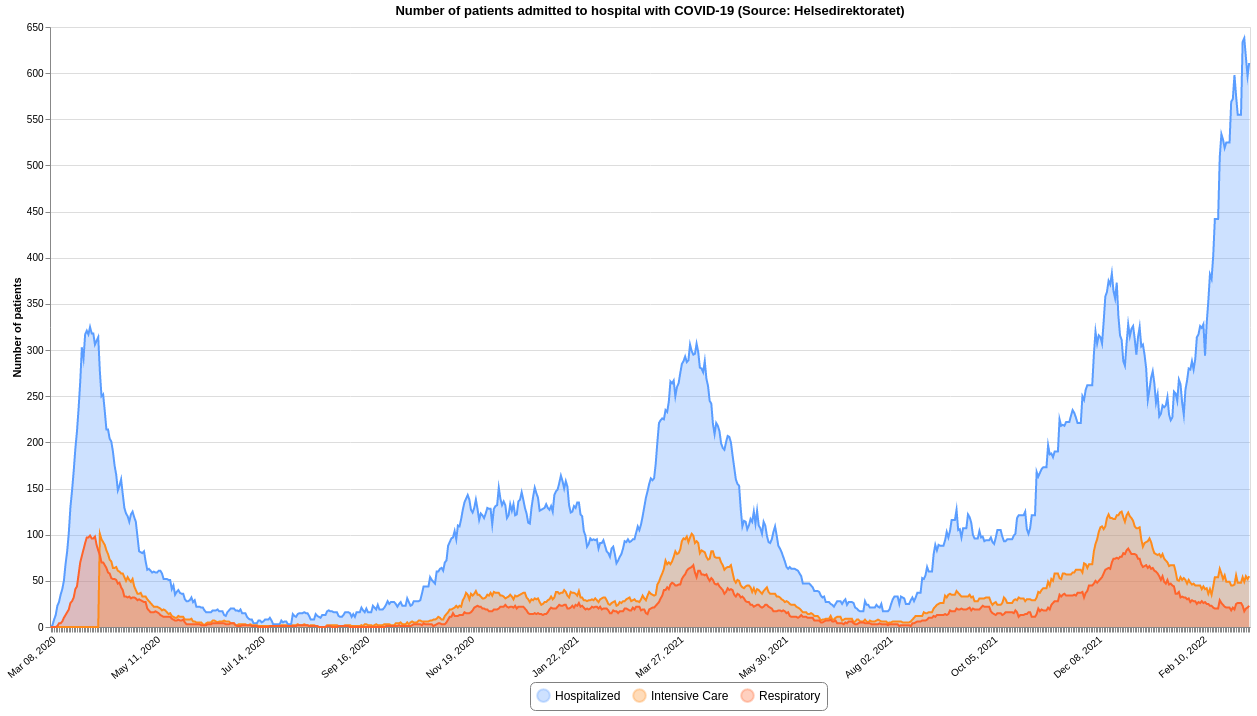
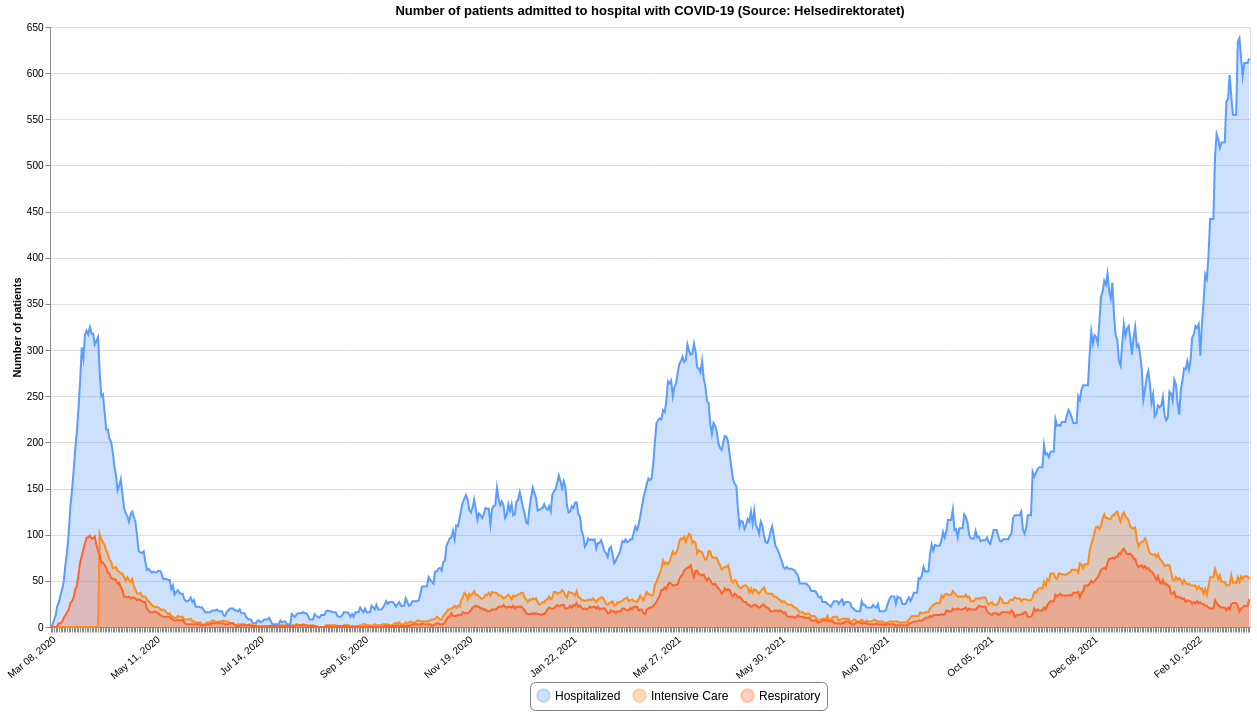
Updated 2022-03-14 12:51

diff --git a/README.md b/README.md
@@ -12,7 +12,7 @@ This repository contains datasets of daily time-series data related to COVID-19 
 | :--- | :--- | :--- | :--- | :--- |
 |[Confirmed](#confirmedcsv)|FHI / MSIS|2022-03-14 00:20:46+01:00|[<center>csv</center>](https://raw.githubusercontent.com/frefrik/covid19norge-data/main/data/confirmed.csv)|[<center>preview</center>](data/confirmed.csv)|
 |[Dead](#deadcsv)|FHI|2022-03-11 13:20:53+01:00|[<center>csv</center>](https://raw.githubusercontent.com/frefrik/covid19norge-data/main/data/dead.csv)|[<center>preview</center>](data/dead.csv)|
-|[Hospitalized](#hospitalizedcsv)|Helsedirektoratet|2022-03-11 12:50:44+01:00|[<center>csv</center>](https://raw.githubusercontent.com/frefrik/covid19norge-data/main/data/hospitalized.csv)|[<center>preview</center>](data/hospitalized.csv)|
+|[Hospitalized](#hospitalizedcsv)|Helsedirektoratet|2022-03-14 12:50:47+01:00|[<center>csv</center>](https://raw.githubusercontent.com/frefrik/covid19norge-data/main/data/hospitalized.csv)|[<center>preview</center>](data/hospitalized.csv)|
 |[Tested](#testedcsv)|FHI|2022-03-11 13:00:45+01:00|[<center>csv</center>](https://raw.githubusercontent.com/frefrik/covid19norge-data/main/data/tested.csv)|[<center>preview</center>](data/tested.csv)|
 |[Tested Lab](#tested_labcsv)|FHI|2022-03-11 13:20:48+01:00|[<center>csv</center>](https://raw.githubusercontent.com/frefrik/covid19norge-data/main/data/tested_lab.csv)|[<center>preview</center>](data/tested_lab.csv)|
 |[Transport](#transportcsv)|FHI|2021-09-24 23:10:46+02:00|[<center>csv</center>](https://raw.githubusercontent.com/frefrik/covid19norge-data/main/data/transport.csv)|[<center>preview</center>](data/transport.csv)|
